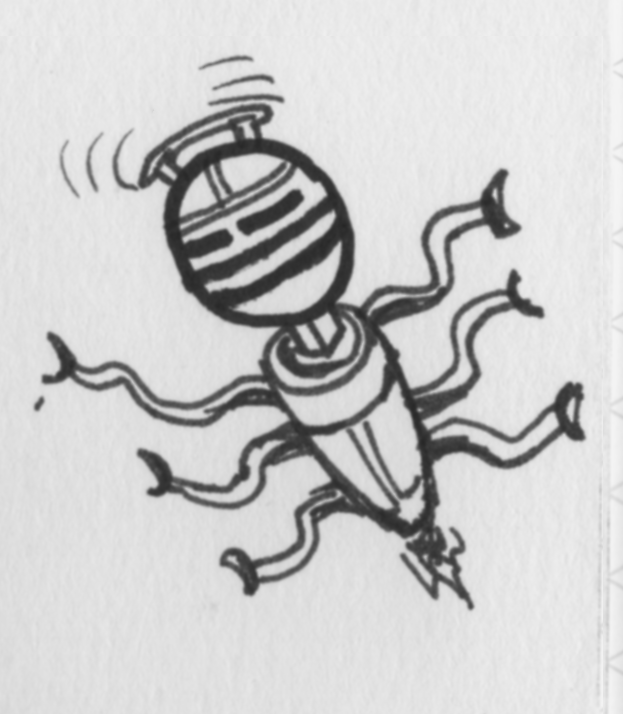
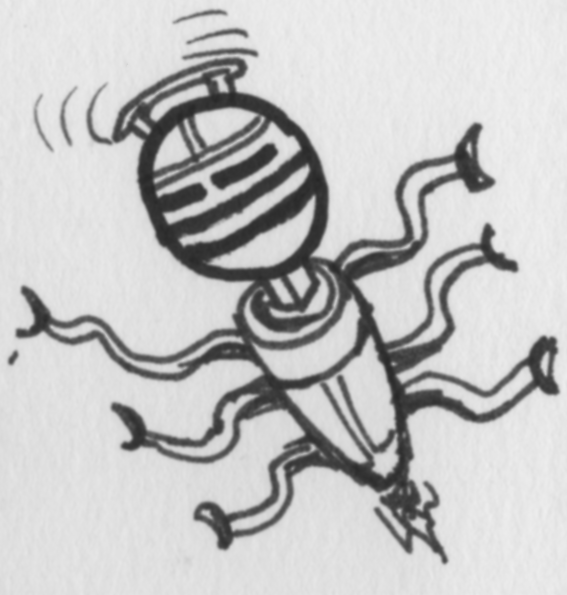
update some graphics

Changed region(s): [[0.03, 0.0, 0.9894, 0.9681], [0.0, 0.5748, 0.03, 0.6353], [0.2998, 0.0303, 0.3298, 0.0605]]

diff --git a/server/web/contact/index.jsx b/server/web/contact/index.jsx
@@ -16,13 +16,13 @@ var Component = React.createClass({
                 <div className="row">
                     <div className="col-sm-6" id="app-mount"></div>
                     <div className="col-sm-6 text-center">
-                        <h1 className="page-header">Contact us</h1>
+                        <h1 className="page-header">Turnstyles Inc.</h1>
                         <p className="lead">
-                            Freddy can't wait to hear from you.
+                            - A time to think and a time to act.
                         </p>
-                        <i className="fa fa-reply-all bamf"></i>
+                        <img src="public/media/robots/Untitled 7.png" className="img-responsive" width="50%"/>
                         <div>
-                            1428 Elm Street &bull; San Francisco, CA 94122
+                            889 Warren Street &bull; Albany, NY 12208
                         </div>
                     </div>
                 </div>

diff --git a/server/web/planet/index.jsx b/server/web/planet/index.jsx
@@ -7,10 +7,39 @@ var Component = React.createClass({
 
         return (
             <Layout
+                id="planetMap"
+                ref="targetContainer"
                 title="Planet Map"
                 activeTab="planet">
             </Layout>
         );
+    },
+
+    getDefaultProps: function() {
+        return {
+            data: [
+                "Earth",
+                "Mars",
+                "Jupiter",
+                "Pluto",
+                "Venus",
+                "Saturn"
+            ]
+        };
+    },
+
+    handleSelect: function(planet){
+        alert(planet + 'selcted');
+    },
+
+    componentDidMount: function(){
+        autocomplete({
+            target: this.refs.targetContainer.getDOMNode(),
+            data: this.props.data,
+            events: {
+                select: this.handleSelect
+            }
+        });
     }
 });
 

diff --git a/server/web/signup/index.jsx b/server/web/signup/index.jsx
@@ -16,11 +16,11 @@ var Component = React.createClass({
                 <div className="row">
                     <div className="col-sm-6" id="app-mount"></div>
                     <div className="col-sm-6 text-center">
-                        <h1 className="page-header">Campy benefits</h1>
+                        <h1 className="page-header">Don't Escape Reality</h1>
                         <p className="lead">
-                            Really, you will love it inside. It's super great!
+                            Generate Alternatives! With Space Opera!
+                            <img src="public/media/robots/Untitled 6.png" className="img-responsive" width="50%"/>
                         </p>
-                        <i className="fa fa-thumbs-o-up bamf"></i>
                     </div>
                 </div>
             </Layout>

diff --git a/server/web/login/index.jsx b/server/web/login/index.jsx
@@ -15,6 +15,13 @@ var Component = React.createClass({
 
                 <div className="row">
                     <div className="col-sm-6" id="app-mount"></div>
+                    <div className="col-sm-6 text-center">
+                        <h1 className="page-header">Tune In Today</h1>
+                        <p className="lead">
+                            The passions of poet heros await!
+                            <img src="public/media/robo_guy.svg" className="img-responsive" width="30%"/>
+                        </p>
+                    </div>
                 </div>
             </Layout>
         );
